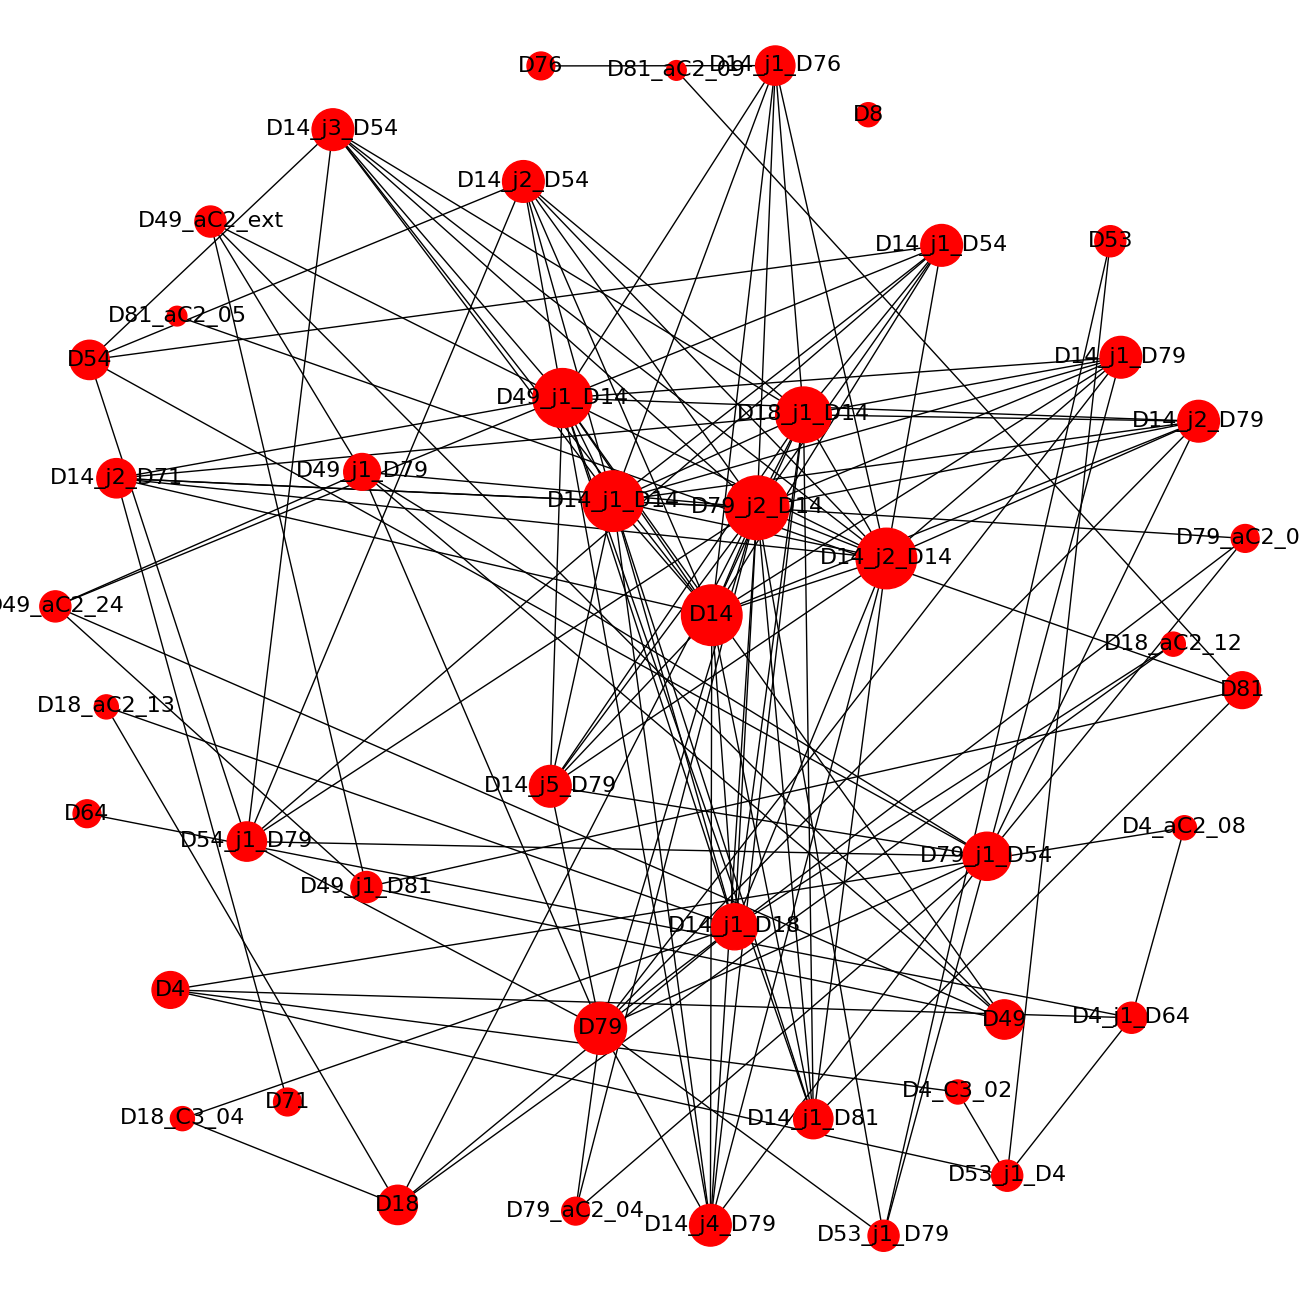
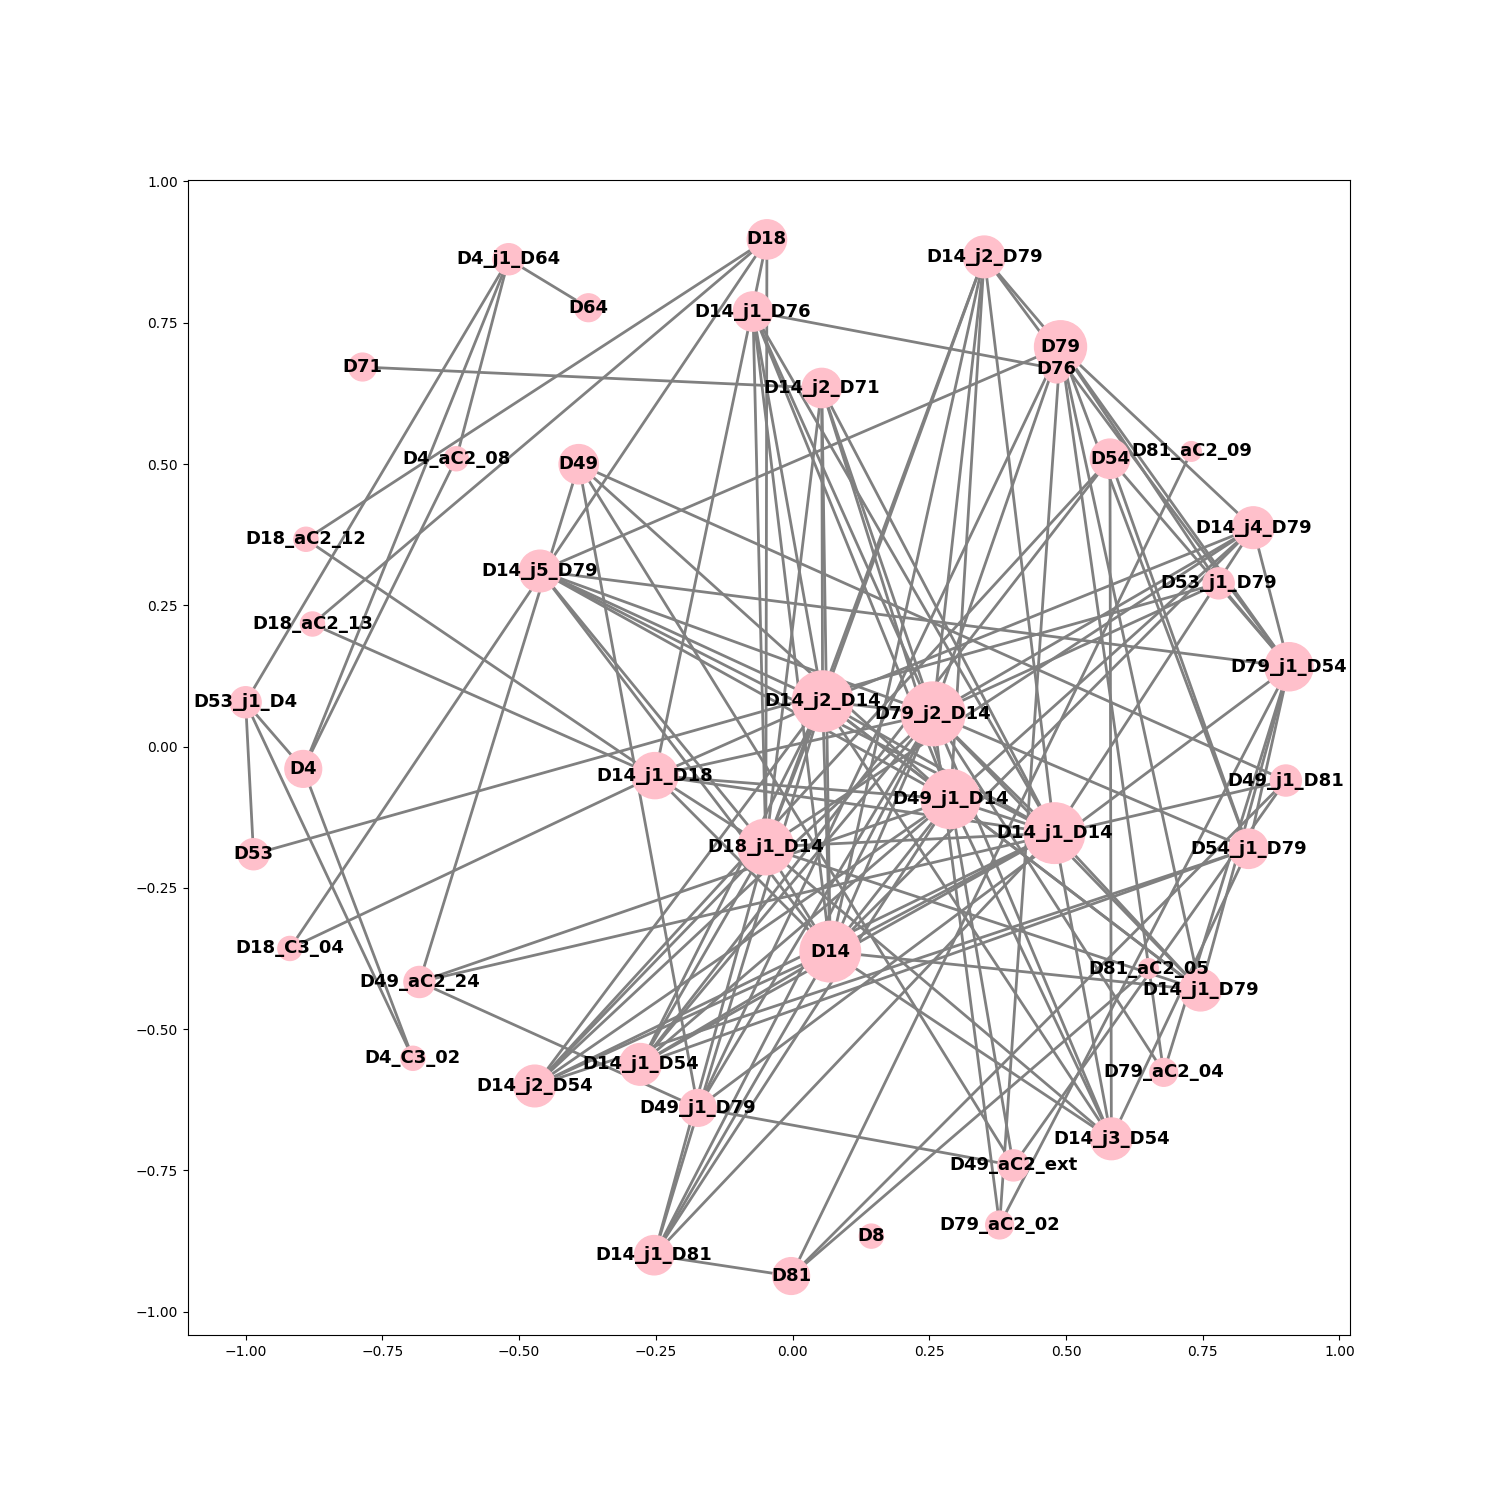
Made graph prettier

diff --git a/elfinpy/stat_xdb.py b/elfinpy/stat_xdb.py
@@ -18,6 +18,12 @@ def parse_args(args):
     parser = argparse.ArgumentParser(description='Prints module radii stat from xdb')
     return parser.parse_args(args)
 
+def convert_to_hex(rgba_color) :
+    red = int(rgba_color[0]*255)
+    green = int(rgba_color[1]*255)
+    blue = int(rgba_color[2]*255)
+    return '#%02x%02x%02x' % (red, green, blue)
+
 def show_graph_with_labels(adjacency_matrix, labels):
     labels_dict = {i: v for i, v in enumerate(labels)}
     adjacency_matrix = np.asarray(adjacency_matrix)
@@ -26,17 +32,30 @@ def show_graph_with_labels(adjacency_matrix, labels):
     D = nx.degree(G)
     D = [(D[node]+1) * 20 for node in G.nodes()]
 
-    fig_size = 13
+    fig_size = 15
     plt.figure(figsize=(fig_size, fig_size))
 
-    pos = nx.spring_layout(G, k=2)
+    pos = nx.spring_layout(G, k=1.9)
 
-    nx.draw(G,
+    node_sizes = [5 * v for v in D]
+    nx.draw_networkx_nodes(G,
         pos,
-        node_size=[5 * v for v in D],
-        labels=labels_dict,
-        font_size=16)
-    plt.axis('equal')
+        node_size=node_sizes,
+        node_color='pink')
+
+    nx.draw_networkx_labels(G,
+        pos,
+        labels_dict,
+        font_size=13,
+        font_color='black',
+        font_weight='bold')
+
+    nx.draw_networkx_edges(G,
+        pos, 
+        edge_color='gray',
+        arrowstyle='->',
+        arrowsize=10,
+        width=2)
 
     plt.show(block=False)
     plt.savefig('xdb_adj_mat.png')
@@ -69,7 +88,6 @@ def main(test_args=None):
         mod_a, mod_b = tx['mod_a'], tx['mod_b']
         id_a, id_b = name_to_idx[mod_a], name_to_idx[mod_b]
         adjmat[id_a][id_b] = 1.0
-        adjmat[id_b][id_a] = 1.0
         # print(','.join((mod_a, mod_b)))
 
     show_graph_with_labels(adjmat, all_names)
